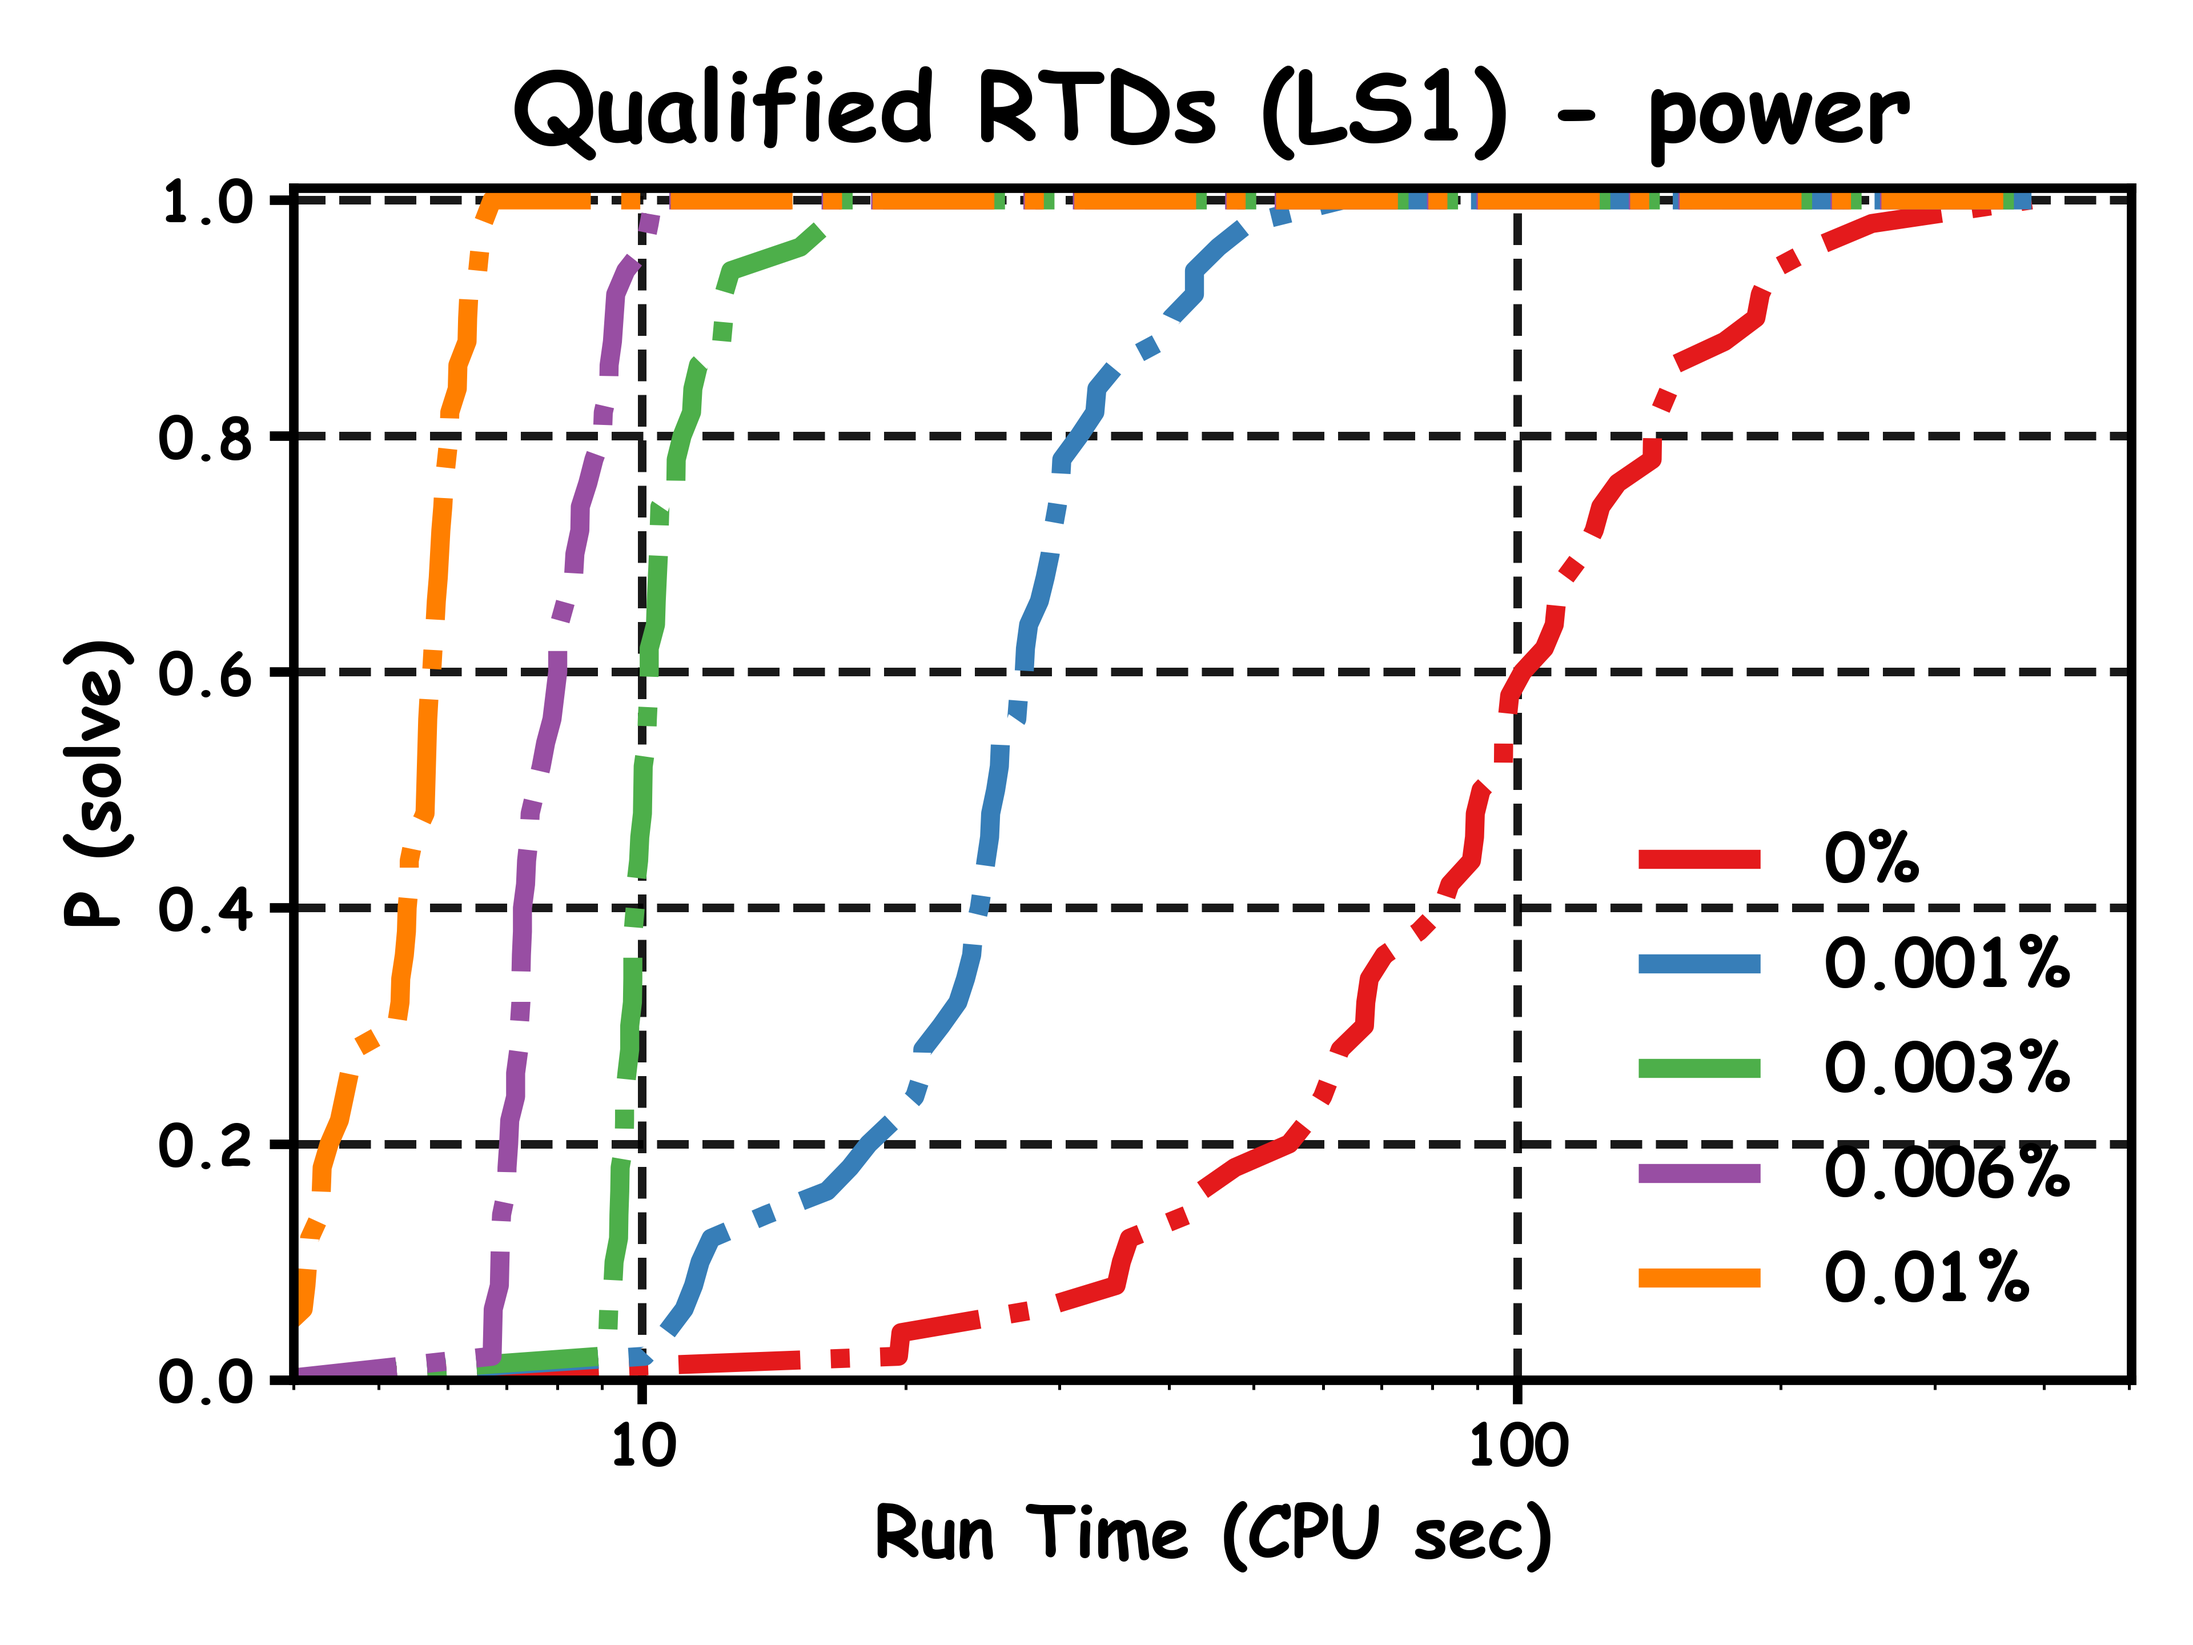
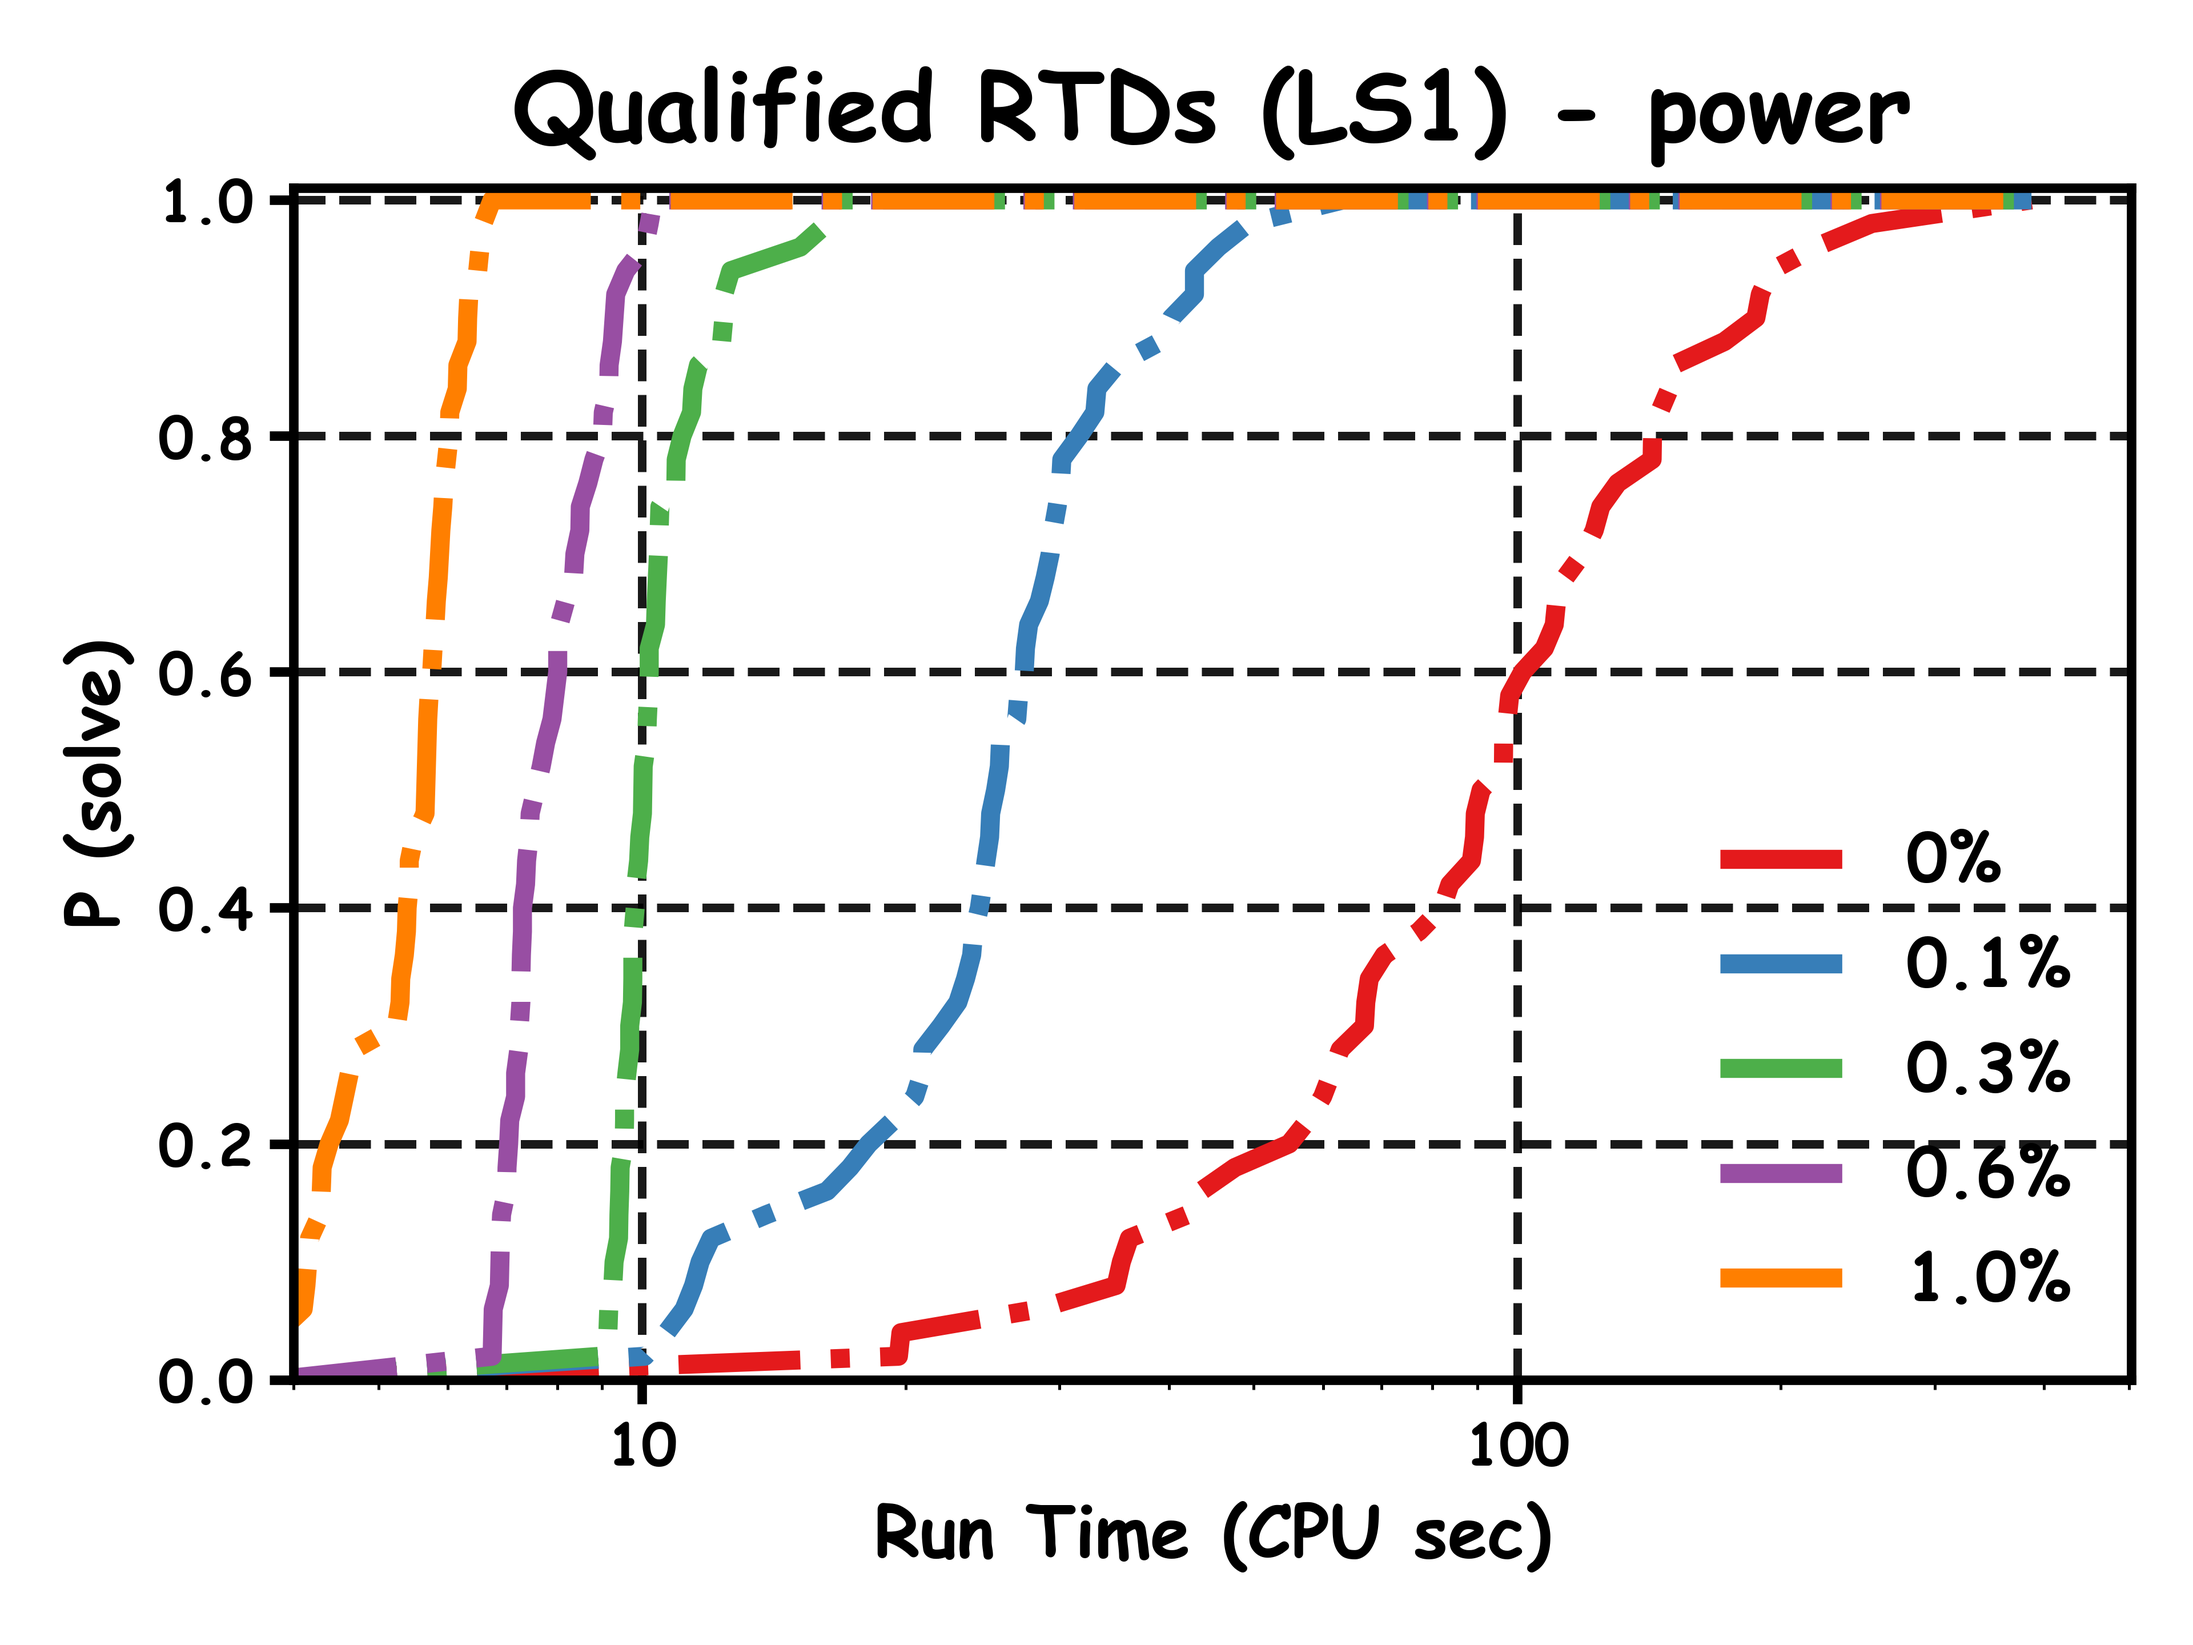
delivery: sqd

Changed region(s): [[0.75, 0.5625, 0.9375, 0.8125], [0.75, 0.5, 0.9062, 0.5312]]

diff --git a/deliverables/deliverable.py b/deliverables/deliverable.py
@@ -67,7 +67,7 @@ plot_font = {
 markers = ["o", "v", "s", "p", "X", "*", "P", "H", "d"]
 matplotlib.rc('font', **plot_font)
 plt.style.use('seaborn-bright')
-palette = ["#e41a1c", "#377eb8", "#4daf4a", "#984ea3", "#ff7f00", "#a65628"]  # palette = plt.get_cmap('Set1')
+palette = ["#e41a1c", "#377eb8", "#4daf4a", "#984ea3", "#ff7f00", "#a65628", "#f781bf", "#999999"]  # palette = plt.get_cmap('Set1')
 
 
 def readTrace(graph_instance, alg):
@@ -144,7 +144,7 @@ def qrtd(graph_instance, alg, trace):
                  color=palette[i],
                  linestyle='-.',
                  linewidth=4,
-                 label=str(quality) + "%")
+                 label=str(round(quality * 100, 1)) + "%")
         # marker=markers[i], markersize=3, markerfacecolor='None', markeredgewidth=2
 
     # set xlim and ylim
@@ -171,12 +171,81 @@ def qrtd(graph_instance, alg, trace):
 
 
 # plot SQD
-def sqd(graph_instance, alg, timestamp_list):
-    pass
+def sqd(graph_instance, alg, trace):
+    timestamp_list = parameter_dict["sqd"]["time"][graph_instance][alg]
+
+    # calculate quality data
+    optimal = optimalVC[graph_instance]
+    time_result_list = dict()
+    for i, timestamp in enumerate(timestamp_list):
+        reach = list()
+        for seed in trace.keys():
+            # binary search for reached size given timestamp
+            result = trace[seed]
+            start, end = 0, len(result) - 1
+            if result[end][0] <= timestamp:
+                reach.append(result[end][1])
+                continue
+            if result[start][0] > timestamp:
+                print("Initial Sol takes longer than " + str(timestamp) + " , seed:" + str(seed))
+                continue
+            while start < end - 1:
+                mid = (start + end) // 2
+                if result[mid][0] < timestamp:
+                    start = mid
+                elif result[mid][0] > timestamp:
+                    end = mid
+                else:
+                    start = mid
+                    break
+            reach.append(result[start][1])
+        reach.sort()
+        time_result_list[i] = reach
+
+    print(time_result_list)
+
+    max_cover_error = round(100 * (max([max(time_result_list[i]) for i in time_result_list.keys()]) - optimal)/optimal, 2)
+    min_cover_error = round(100 * (min([min(time_result_list[i]) for i in time_result_list.keys()]) - optimal)/optimal, 2)
+
+    print(max_cover_error)
+    print(min_cover_error)
+
+    # plot srd
+    for i, timestamp in enumerate(timestamp_list):
+        qualityX = [0] + [round(100 * (vc - optimal) / optimal, 2) for vc in time_result_list[i]] + \
+                   [max_cover_error]
+        probY = [0] + [round((j + 1) / len(trace), 4) for j in range(len(time_result_list[i]))] + [1]
+        plt.plot(qualityX, probY,
+                 color=palette[i],
+                 linestyle='-',
+                 linewidth=4,
+                 label=str(timestamp))
+        # marker=markers[i], markersize=3, markerfacecolor='None', markeredgewidth=2
+
+    # set xlim and ylim
+    min_padding, max_padding = parameter_dict["sqd"]["padding"][graph_instance]
+    plt.xlim([min_cover_error - min_padding, max_cover_error + max_padding])
+    plt.ylim([0, 1.01])
+
+    ax = plt.gca()
+    for axis in [ax.xaxis, ax.yaxis]:
+        axis.set_tick_params(size=5, width=2)
+        axis.set_major_formatter(ScalarFormatter())
+    for axis in ['top', 'bottom', 'left', 'right']:
+        ax.spines[axis].set_linewidth(2)
+    ax.grid(color="black", linestyle="--", linewidth=1.8, alpha=0.9)
+
+    plt.title("SQDs (" + alg + ") - " + graph_instance, loc='center', fontdict=title_font, pad=10)
+    plt.xlabel("Relative Error (%)", fontdict=label_font)
+    plt.ylabel("P (solve)", fontdict=label_font)
+    plt.legend(loc=4, ncol=1, prop={'size': 14}, frameon=False)
+    plt.tight_layout()
+    plt.savefig('SQD-' + graph_instance + "-" + alg + '.png', dpi=600)
+    plt.show()
 
 
 # plot boxplot for runtime
-def boxplot_runtime(graph_instance, alg):
+def boxplot_runtime(graph_instance, alg, trace):
     pass
 
 
@@ -198,12 +267,23 @@ def main():
             trace_result = readTrace(plot_graph, plot_alg)
 
             # plot qrtd
-            min_error = (min([min(trace_result[seed], key=lambda x: x[1])[1] for seed in trace_result.keys()]) -
+            min_error = (min([trace_result[seed][-1][1] for seed in trace_result.keys()]) -
                          optimalVC[plot_graph]) / optimalVC[plot_graph]
-            max_error = (max([max(trace_result[seed], key=lambda x: x[1])[1] for seed in trace_result.keys()]) -
+            max_error = (max([trace_result[seed][-1][1] for seed in trace_result.keys()]) -
                          optimalVC[plot_graph]) / optimalVC[plot_graph]
-            print("Graph:\n" + "Min: " + str(min_error) + "\n" + "Max: " + str(max_error))
+            print("Graph:\n" + "Min Error: " + str(min_error) + "\n" + "Max Error: " + str(max_error))
             qrtd(plot_graph, plot_alg, trace_result)
+
+            # plot sqd
+            min_time = min([trace_result[seed][-1][0] for seed in trace_result.keys()])
+            max_time = max([trace_result[seed][-1][0] for seed in trace_result.keys()])
+            print("Graph:\n" + "Max Time: " + str(max_time) + "\n" + "Min Time: " + str(min_time))
+            sqd(plot_graph, plot_alg, trace_result)
+
+            # plot box for result
+
+
+            # plot box for run time
 
 
 parameter_dict = {
@@ -220,23 +300,40 @@ parameter_dict = {
         },
         "padding": {
             "power": (0.98, 1.3),
-            "star2": (0.98, 1.5)
+            "star2": (0.98, 1.52)
+        }
+    },
+    "sqd": {
+        "time": {
+            "power": {
+                "LS1": [6, 8, 10, 16, 24, 40, 60],
+                "LS2": [40, 50, 60, 70, 80, 90, 100]
+            },
+            "star2": {
+                "LS1": [30, 40, 50, 100, 150, 200, 300],
+                "LS2": [80, 100, 125, 150, 175, 200, 225]
+            }
+        },
+        "padding": {
+            "power": (0.02, 0.1),
+            "star2": (0.05, 0.05)
         }
     }
 }
 
 # read data random seed: trace list
-"""
 plot_graph, plot_alg = "star2", "LS2"
-time.sleep(1)  # sleep one second
-trace_result_1 = readTrace(plot_graph, plot_alg)
+trace_result = readTrace(plot_graph, plot_alg)
 
-# plot qrtd
-min_error = (min([min(trace_result_1[seed], key=lambda x: x[1])[1] for seed in trace_result_1.keys()]) - optimalVC[plot_graph]) / optimalVC[plot_graph]
-max_error = (max([max(trace_result_1[seed], key=lambda x: x[1])[1] for seed in trace_result_1.keys()]) - optimalVC[plot_graph]) / optimalVC[plot_graph]
-print("Graph:\n" + "Min: " + str(min_error) + "\n" + "Max: " + str(max_error))
-qrtd(plot_graph, plot_alg, trace_result_1)""
+# plot sqd
+min_time = min([trace_result[seed][-1][0] for seed in trace_result.keys()])
+max_time = max([trace_result[seed][-1][0] for seed in trace_result.keys()])
+print("Graph:\n" + "Max Time: " + str(max_time) + "\n" + "Min Time: " + str(min_time))
+sqd(plot_graph, plot_alg, trace_result)
+
 """
-
 if __name__ == '__main__':
     main()
+"""
+
+
